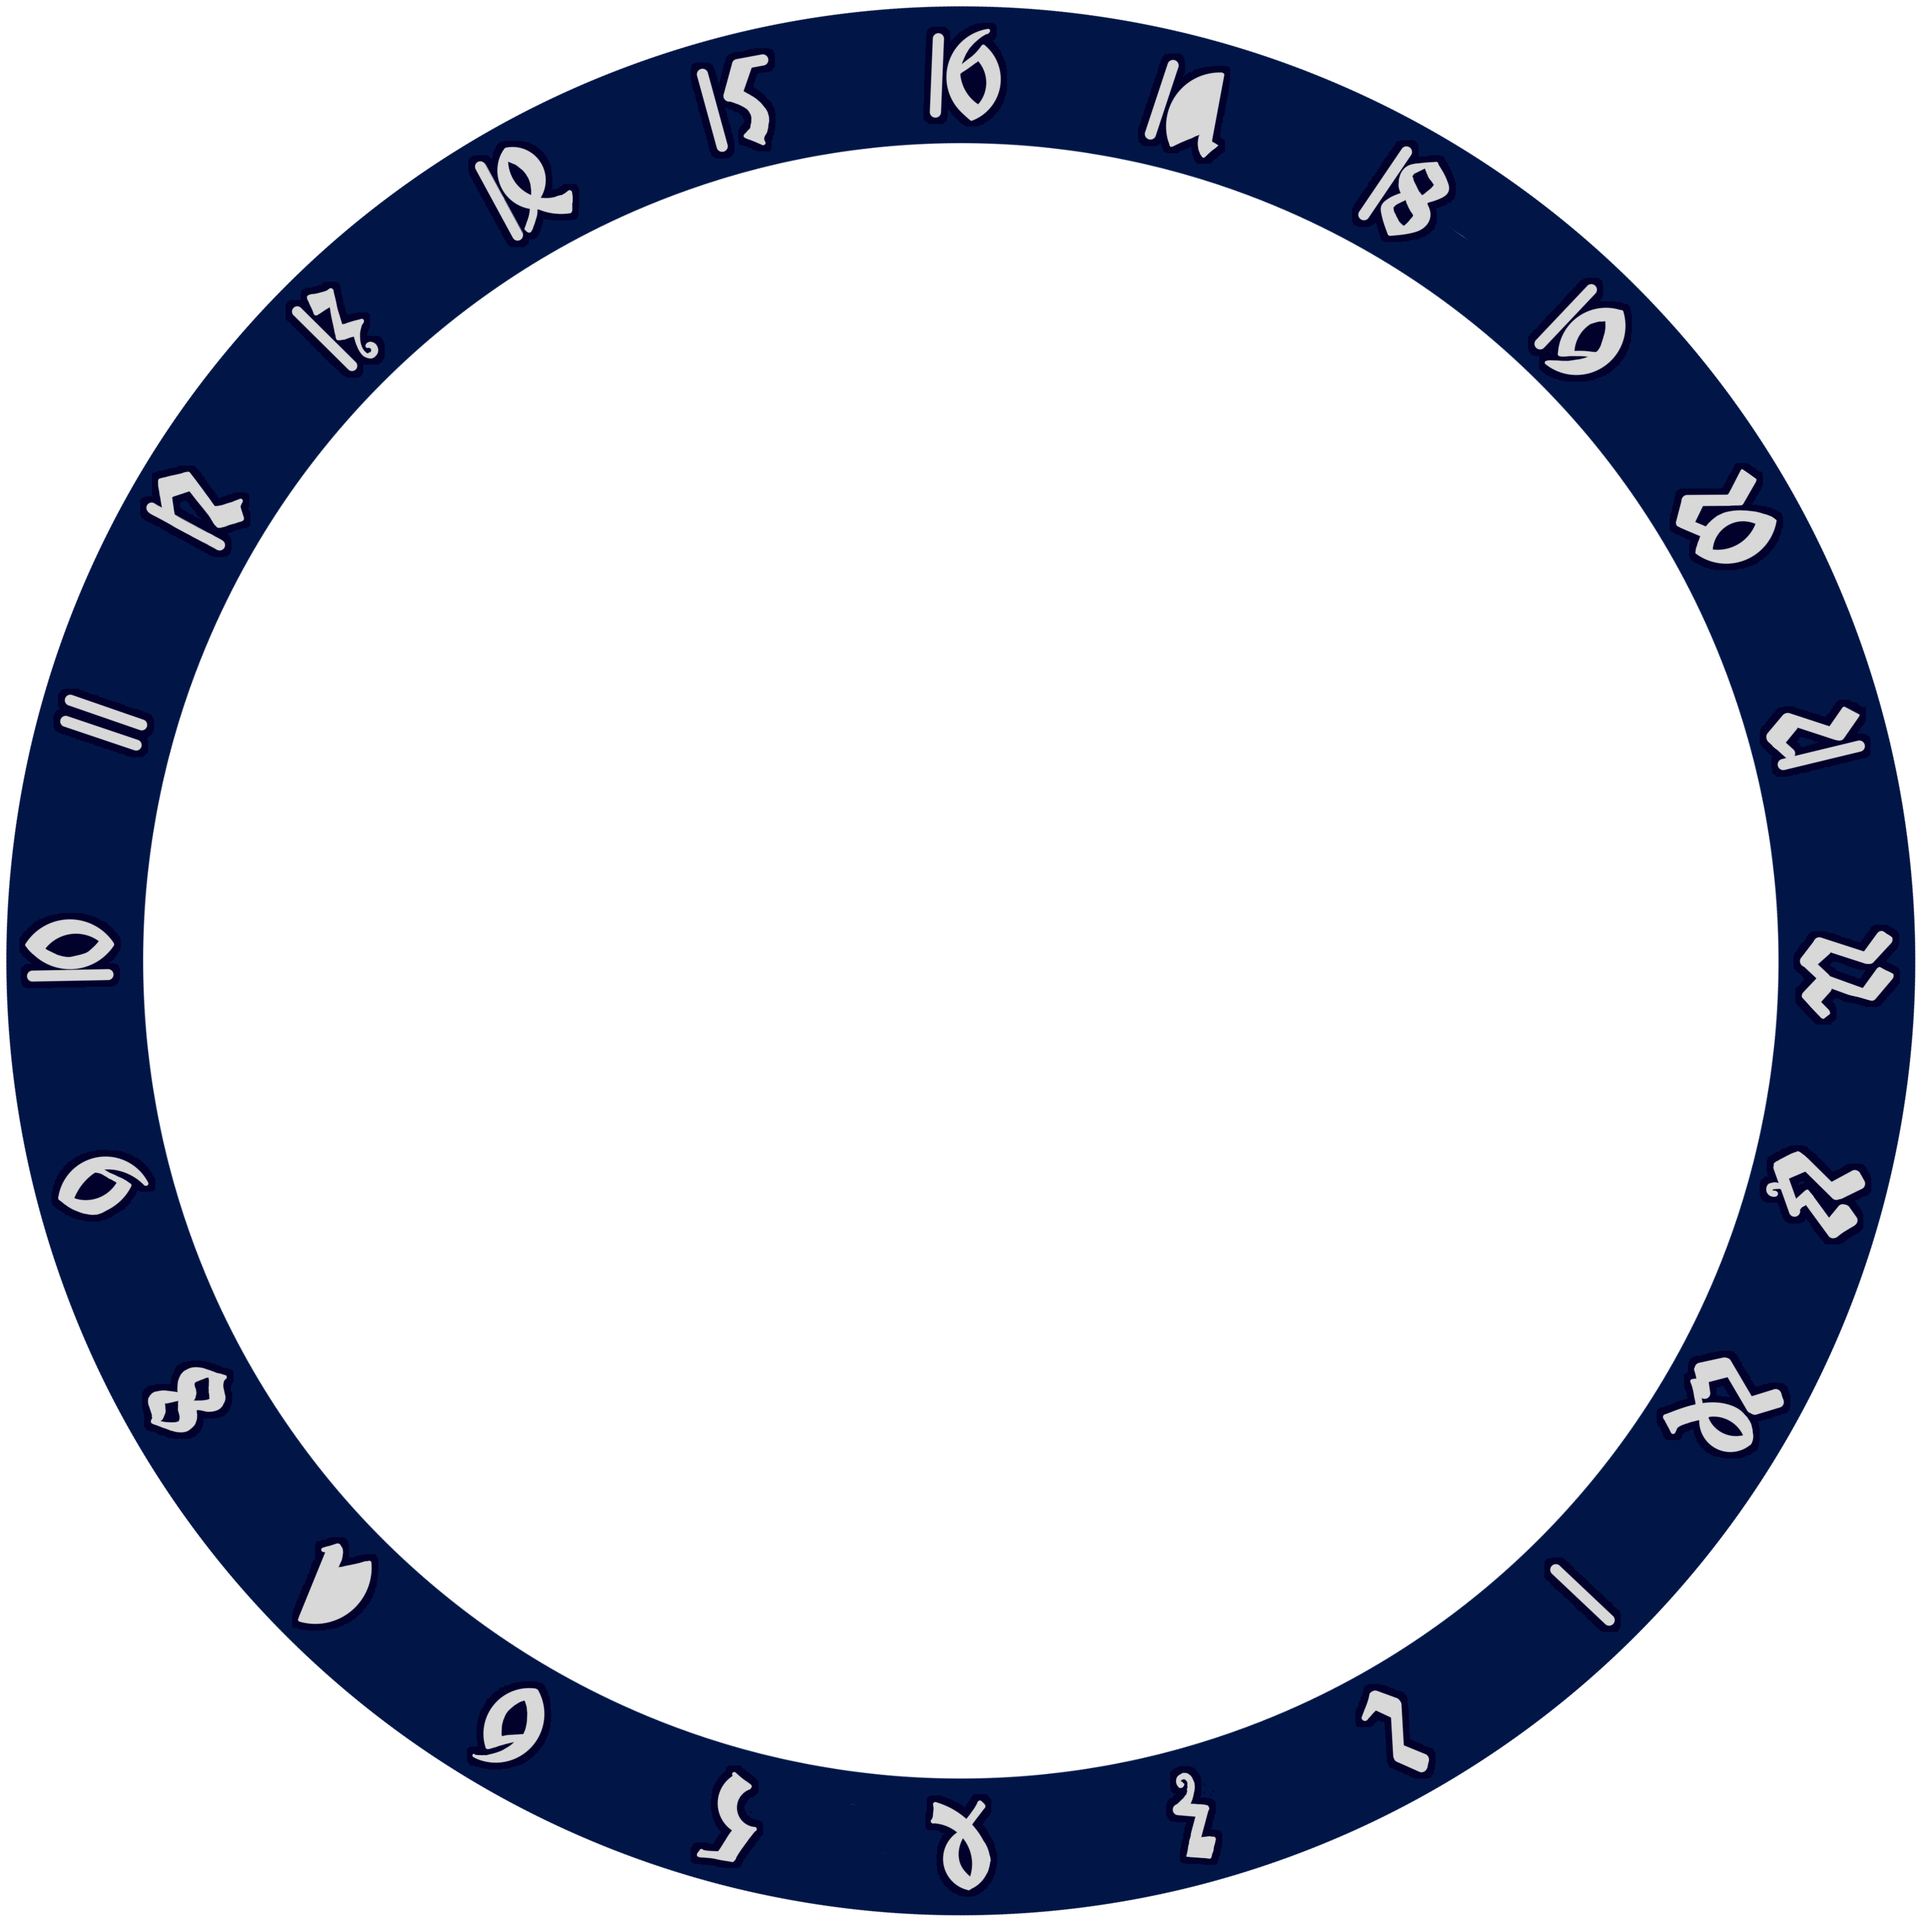
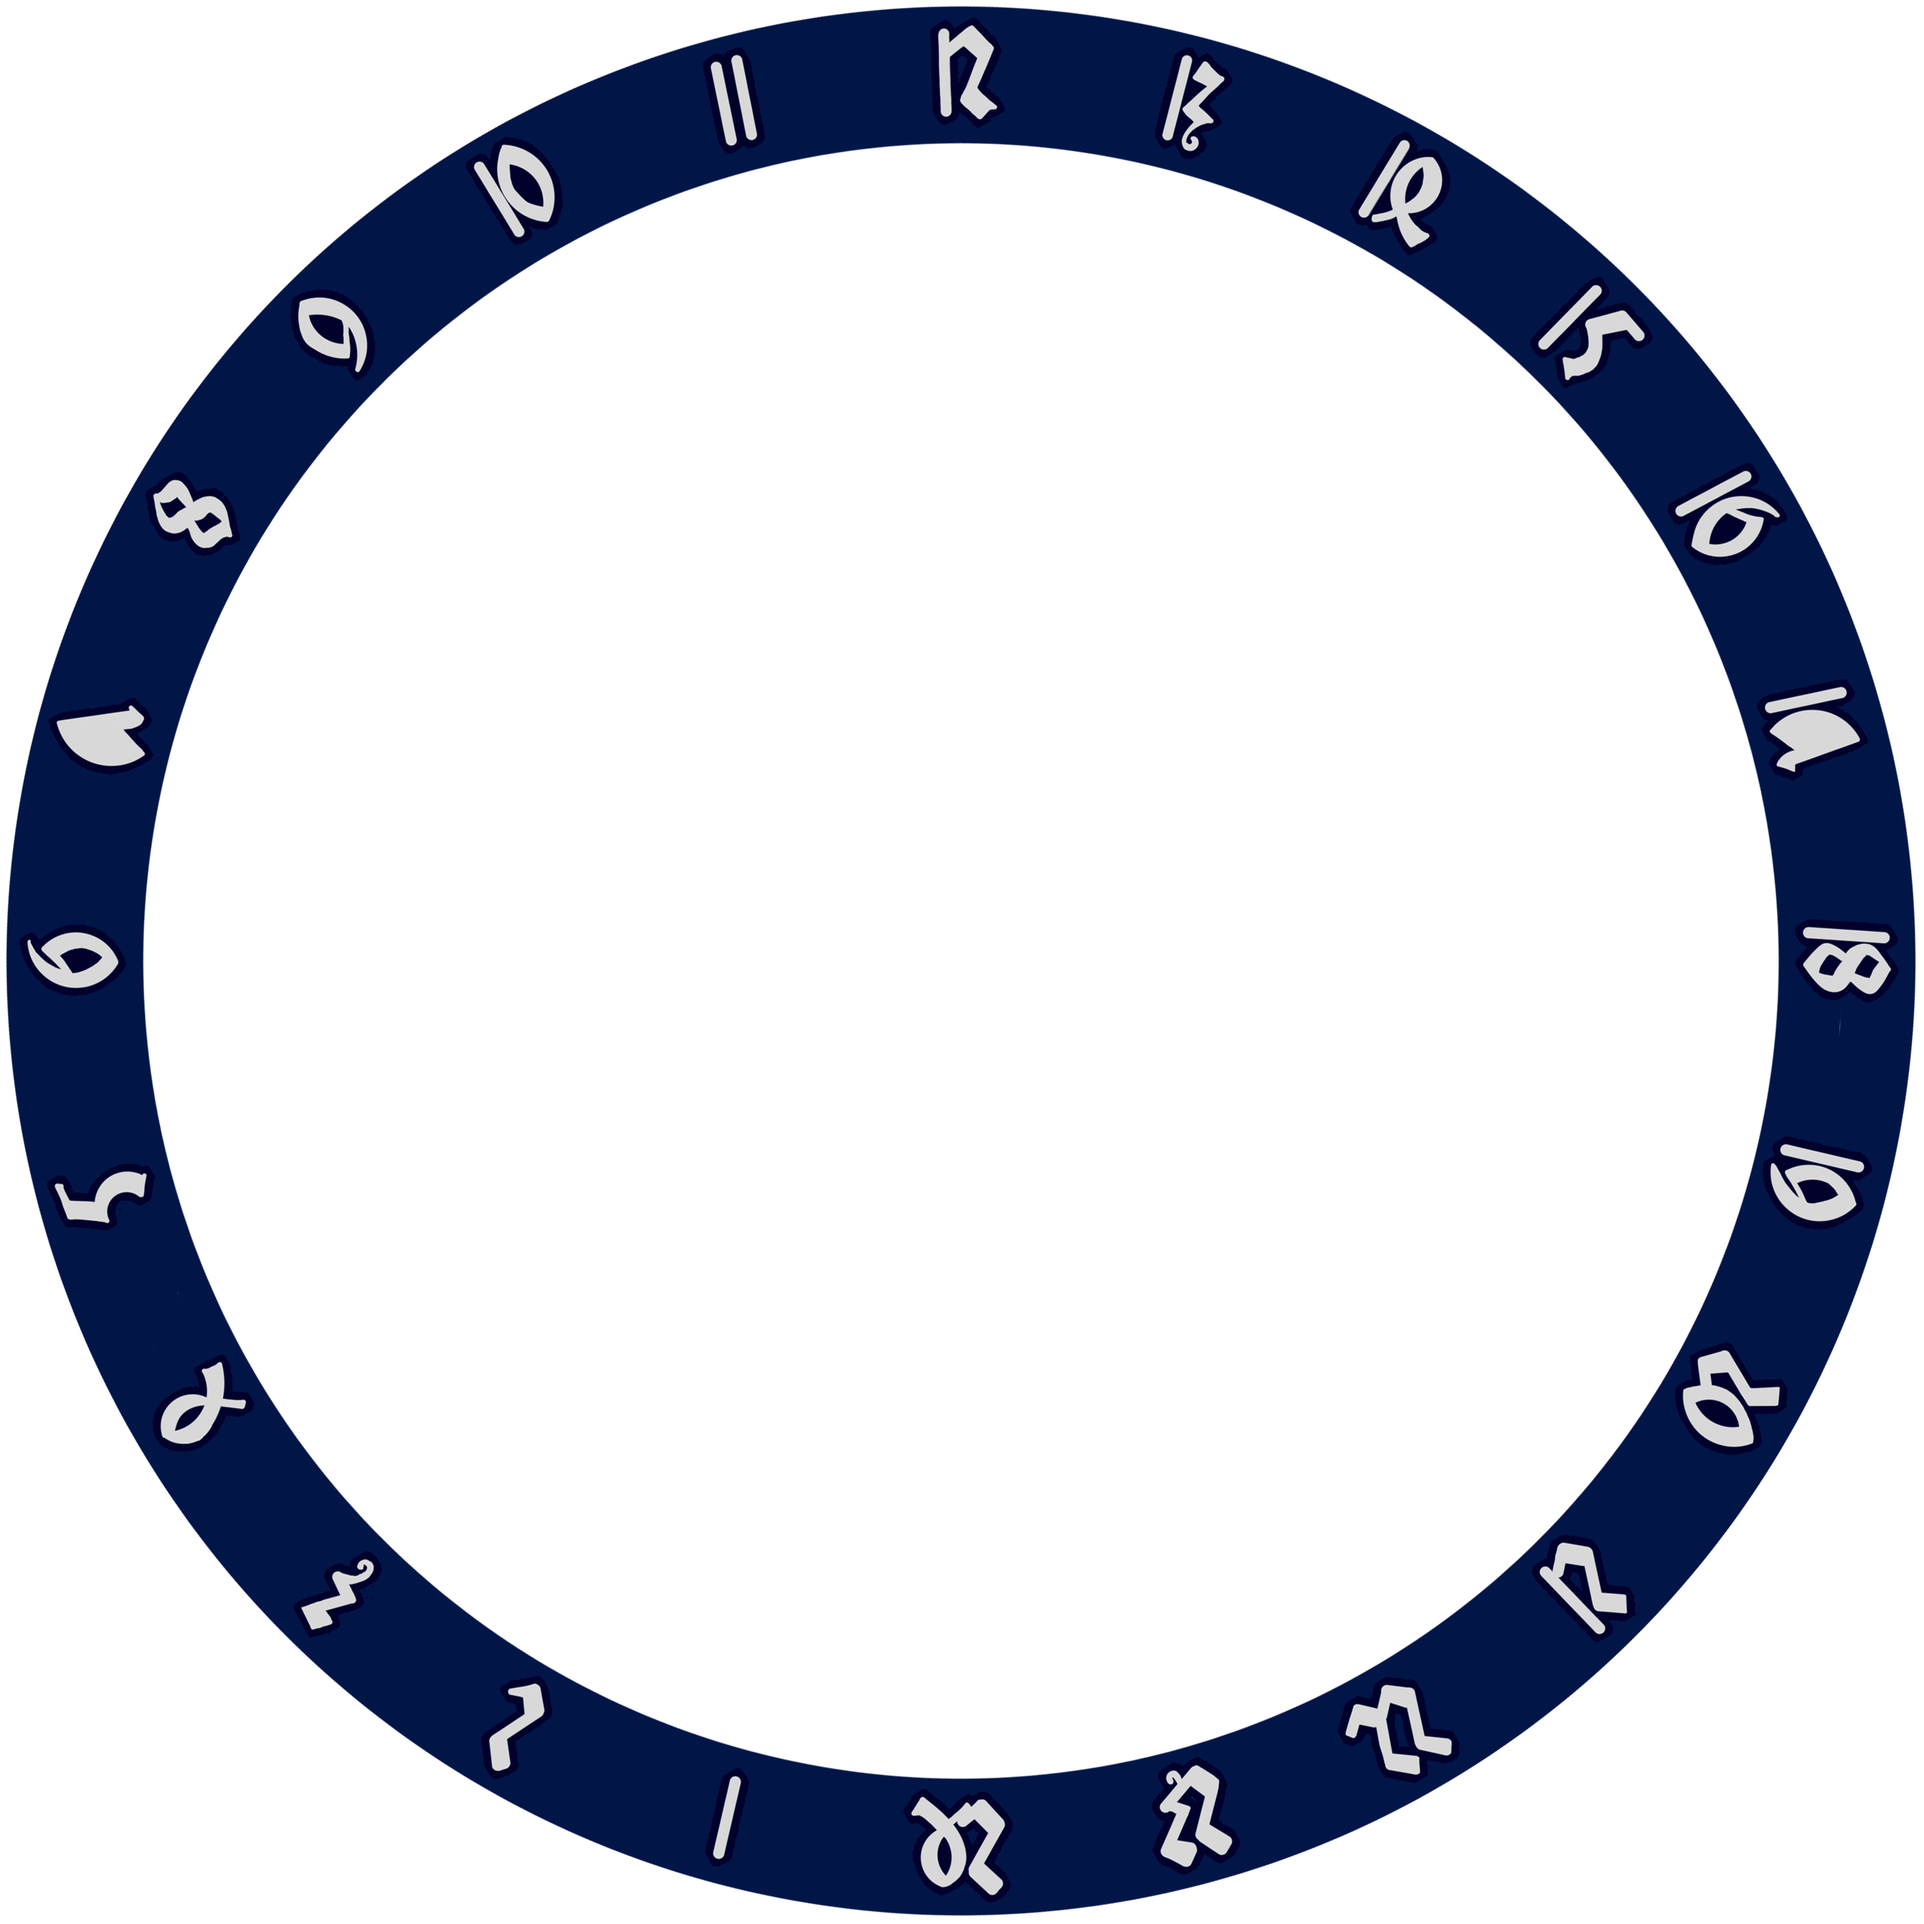
sun position

diff --git a/src/js/components/App.jsx b/src/js/components/App.jsx
@@ -1,14 +1,19 @@
 import { format, set } from "date-fns";
+import SunCalc from "suncalc";
 import React, { useState, useEffect } from "react";
 import AnilloFijo from "./AnilloFijo";
 import AnilloHoraAntigua from "./AnilloHoraAntigua";
 import AnilloZodiacal from "./AnilloZodiacal";
+import AgujaSol from "./AgujaSol";
 import "../../styles/styles.css";
 
 const App = () => {
   const [time, setHora] = useState(new Date());
   const [handRotate, setHandRotate] = useState(0);
   const [zodiacRotate, setZodiacRotate] = useState(0);
+  const [sunRotate, setSunRotate] = useState(0);
+  const [sunPosition, setSunPosition] = useState(0);
+  const [oldTimeRotate, setOldTimeRotate] = useState(0);
   useEffect(() => {
     const interval = setInterval(() => {
       setHora(new Date());
@@ -18,23 +23,44 @@ const App = () => {
   const _getHandAngle = () => {
     const hour = time.getHours();
     const minutes = time.getMinutes();
-    const segs = time.getSeconds();
-
-    const handAngle = (hour + minutes / 60 + segs / 3600) * 15;
-    return handAngle;
+    const seconds = time.getSeconds();
+    return (hour + minutes / 60 + seconds / 3600) * 15;
   };
+
   const _getZodiacAngle = (date = new Date()) => {
     const equinox = new Date(date.getFullYear(), 2, 20);
-    const gapDate = date - equinox;
-    const daysSinceEquinox = gapDate / (100 * 60 * 60 * 24);
-
-    const zodiacAngle = (daysSinceEquinox % 365, 25) * (360 / 365.25);
-    return zodiacAngle;
+    const daysSinceEquinox = (date - equinox) / (1000 * 60 * 60 * 24);
+    return (daysSinceEquinox % 365.25) * (360 / 365.25);
   };
-  const _getSunAngle = () => {};
+
+  const _getSunAngle = () => {
+    const RADIUS = 100;
+    const totalAngle = _getHandAngle() + _getZodiacAngle();
+    return Math.cos((totalAngle * Math.PI) / 180) * RADIUS;
+  };
+
+  const _getSunPosition = () => {
+    const RADIUS = 100;
+    const totalAngle = _getHandAngle() + _getZodiacAngle();
+    return Math.sin((totalAngle * Math.PI) / 180) * RADIUS;
+  };
+
+  const getSunsetTime = () => {
+    const times = SunCalc.getTimes(new Date(), 40.4168, -3.7038);
+    return times.sunset.getHours() + times.sunset.getMinutes() / 60;
+  };
+
+  const _getOldTimeAngle = () => {
+    const sunsetHour = getSunsetTime();
+    return sunsetHour * 15;
+  };
+
   useEffect(() => {
     setHandRotate(_getHandAngle());
     setZodiacRotate(_getZodiacAngle());
+    setSunRotate(_getSunAngle());
+    setSunPosition(_getSunPosition());
+    setOldTimeRotate(_getOldTimeAngle());
   }, [time]);
   const formatTime = format(time, "HH:mm:ss");
 
@@ -46,13 +72,9 @@ const App = () => {
             <h1 className="m-5 text-white">{formatTime}</h1>
             <div className="clock">
               <AnilloFijo handRotate={handRotate} />
-              <div className="rotate">
-                <AnilloHoraAntigua />
-                <AnilloZodiacal
-                  zodiacRotate={zodiacRotate}
-                  sunRotate={handRotate}
-                />
-              </div>
+              <AnilloHoraAntigua oldTimeRotate={oldTimeRotate} />
+              <AnilloZodiacal zodiacRotate={zodiacRotate} />
+              <AgujaSol sunRotate={sunRotate} sunPosition={sunPosition} />
             </div>
           </div>
         </div>

diff --git a/src/js/components/AnilloZodiacal.jsx b/src/js/components/AnilloZodiacal.jsx
@@ -1,17 +1,16 @@
 import React from "react";
 import zodiacal from "../../img/Anillo_zodiacal.png";
 import "../../styles/styles.css";
-import AgujaSol from "./AgujaSol";
 
-const AnilloZodiacal = ({ zodiacRotate, sunRotate }) => {
+const AnilloZodiacal = ({ zodiacRotate }) => {
   return (
     <>
-      <div
-        className="zodiaco"
-        style={{ transform: `rotate(${zodiacRotate}deg)` }}
-      >
-        <img className="zodiacal" src={zodiacal} />
-        <AgujaSol sunRotate={sunRotate} />
+      <div className="zodiaco">
+        <img
+          className="zodiacal"
+          src={zodiacal}
+          style={{ transform: `rotate(${zodiacRotate}deg)` }}
+        />
       </div>
     </>
   );

diff --git a/src/styles/styles.css b/src/styles/styles.css
@@ -30,27 +30,26 @@ img {
   height: var(--clockSize);
 }
 .zodiaco {
-  position: absolute;
-  right: -260px;
+  position: relative;
+  top: -2000px;
+  right: 500px;
 }
 .clock {
   position: relative;
   margin-top: 50px;
 }
-.rotate {
-  right: 500px;
-  position: relative;
-  top: -1000px;
-}
+
 .hora-Antigua {
-  position: absolute !important;
+  position: relative !important;
+  top: -1000px;
 }
 .zodiacal {
   position: absolute !important;
+  z-index: 100;
 }
 .aguja-sol {
   position: relative;
   z-index: 200;
-  right: 108px;
-  top: -45px;
+  top: -2000px;
+  right: -200px;
 }

diff --git a/src/js/components/AnilloHoraAntigua.jsx b/src/js/components/AnilloHoraAntigua.jsx
@@ -2,11 +2,18 @@ import React from "react";
 import anillo from "../../img/Anillo_hora_antigua.png";
 import "../../styles/styles.css";
 
-const AnilloHoraAntigua = () => {
+const AnilloHoraAntigua = ({ oldTimeRotate }) => {
+  const rotation = oldTimeRotate;
+
   return (
-    <>
-      <img className="hora-Antigua" src={anillo} />
-    </>
+    <div
+      className="hora-Antigua"
+      style={{
+        transform: `rotate(${rotation}deg)`,
+      }}
+    >
+      <img src={anillo}></img>
+    </div>
   );
 };
 

diff --git a/src/js/components/AgujaSol.jsx b/src/js/components/AgujaSol.jsx
@@ -1,13 +1,13 @@
 import React from "react";
 import agujaSol from "../../img/aguja_sol.png";
 
-const AgujaSol = ({ sunRotate }) => {
+const AgujaSol = ({ sunRotate, sunPosition }) => {
   return (
     <>
       <img
         className="aguja-sol"
         src={agujaSol}
-        style={{ transform: `rotate(${sunRotate}deg)` }}
+        style={{ transform: `translate(${sunRotate}px, ${sunPosition}px)` }}
       />
     </>
   );

diff --git a/index.html b/index.html
@@ -1,10 +1,10 @@
-<!doctype html>
+<!DOCTYPE html>
 <html lang="en">
   <head>
     <meta charset="UTF-8" />
     <link rel="icon" type="image/svg+xml" href="/4geeks.ico" />
     <meta name="viewport" content="width=device-width, initial-scale=1.0" />
-    <title>Hello Rigo with Vanilla.js</title>
+    <title>Prague Astronomical Clock</title>
   </head>
   <body>
     <div id="root"></div>
